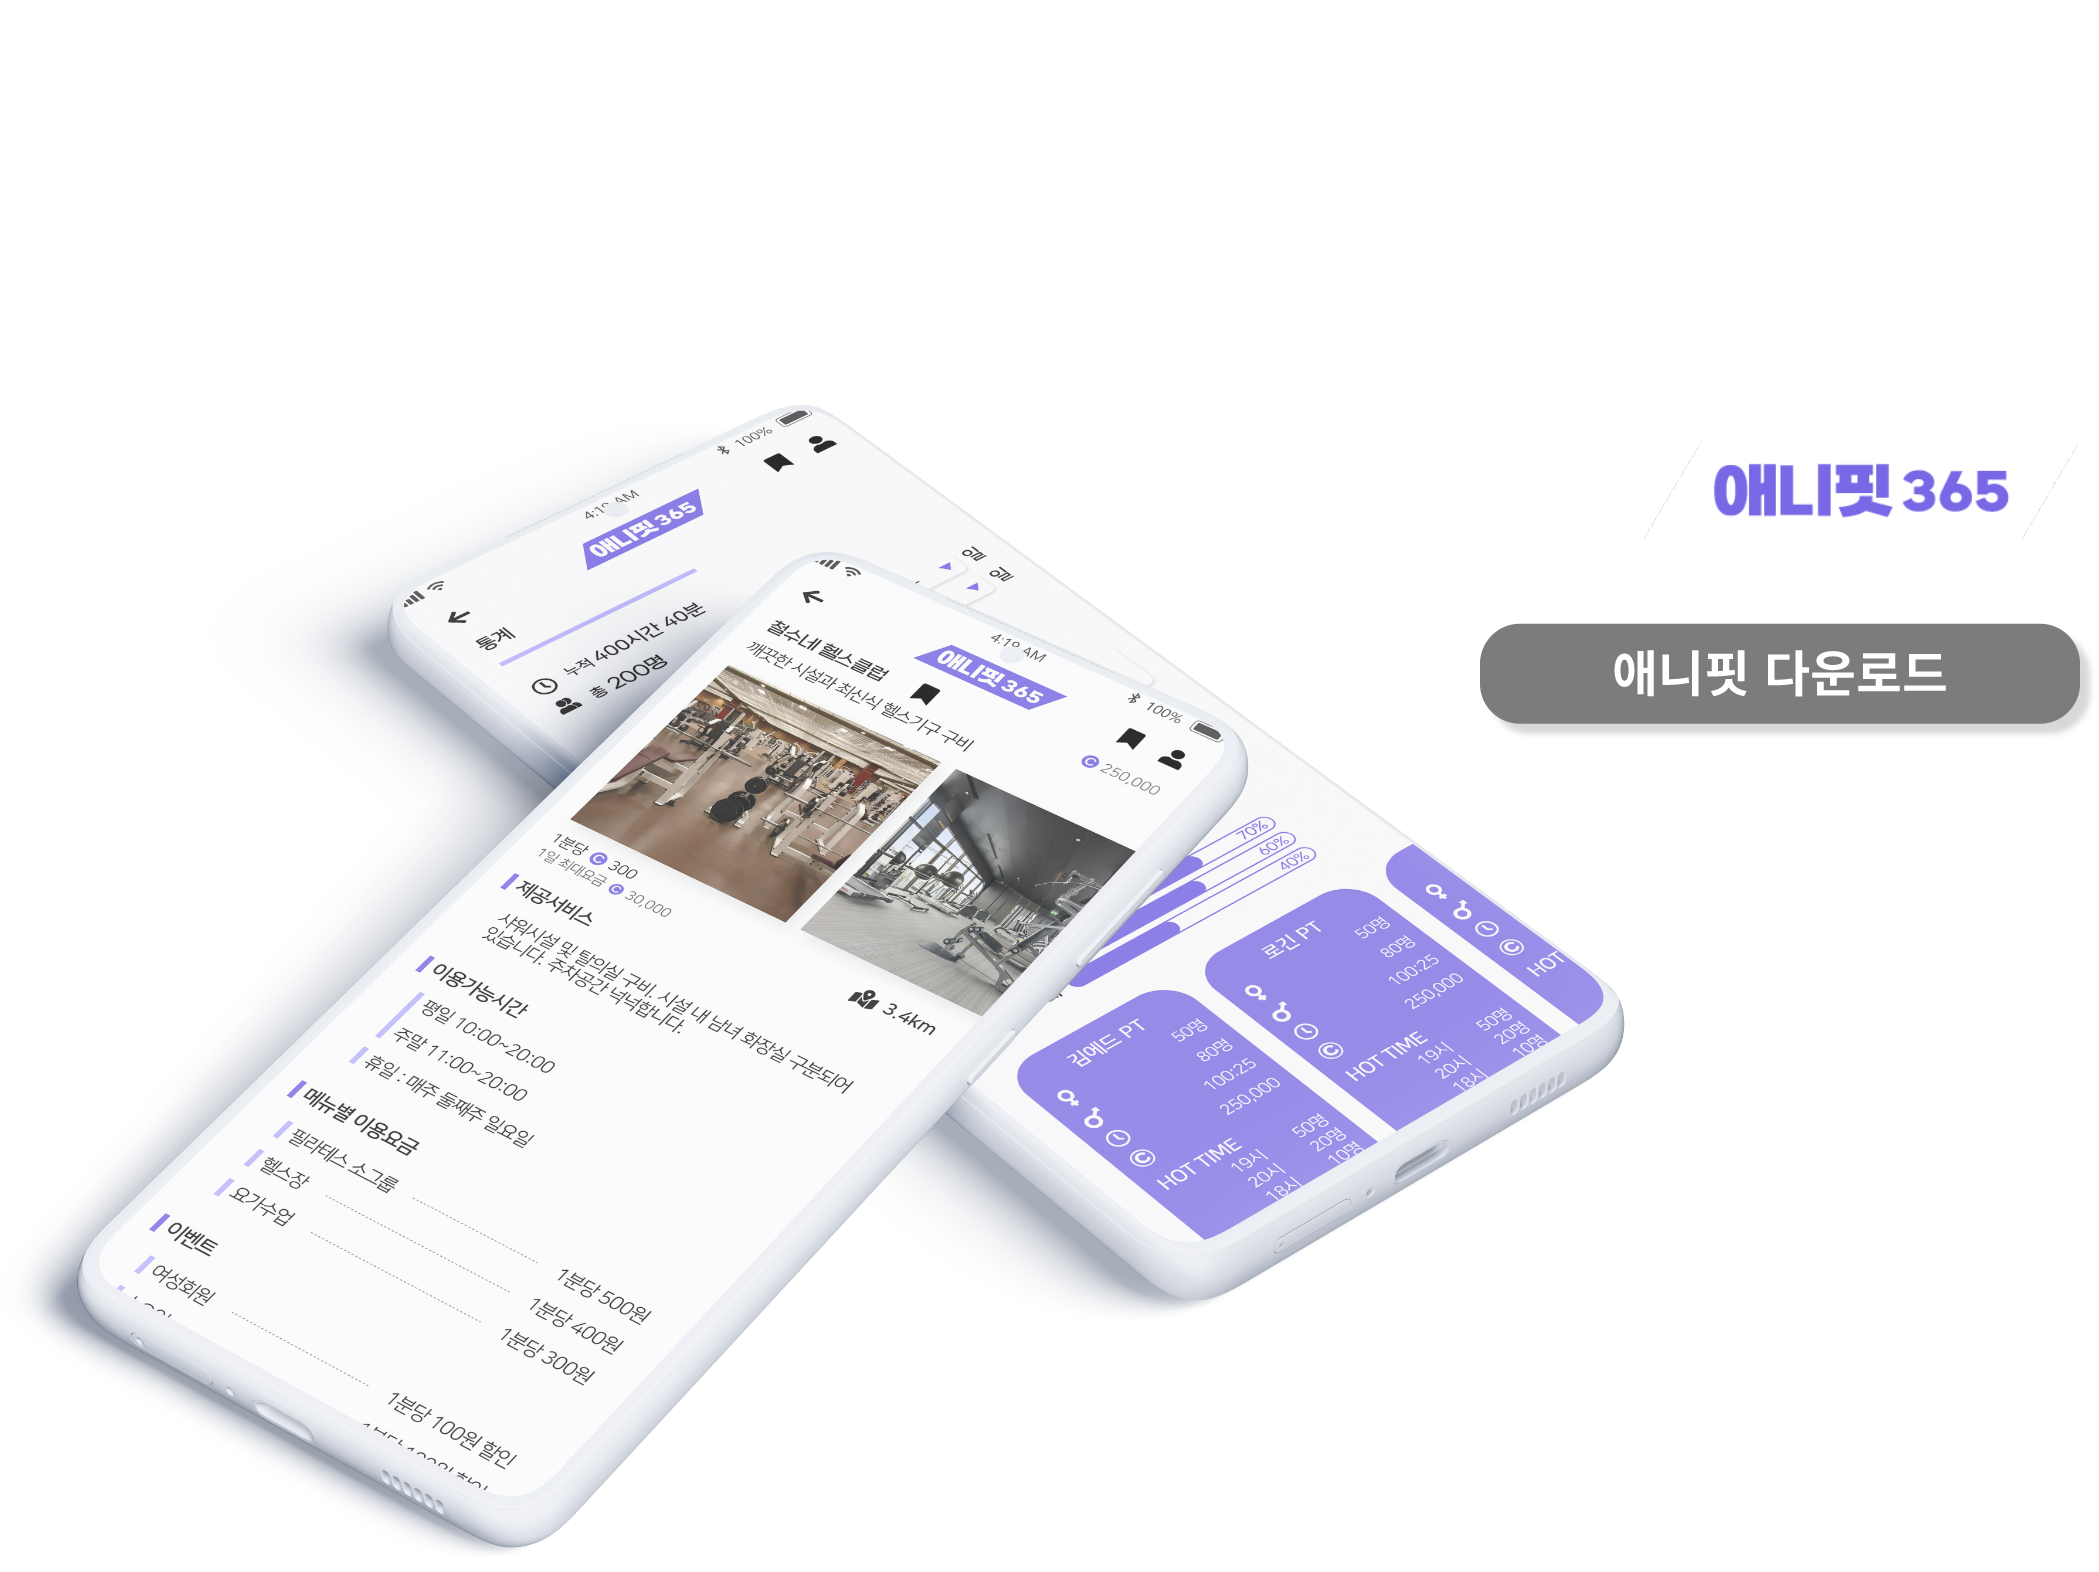
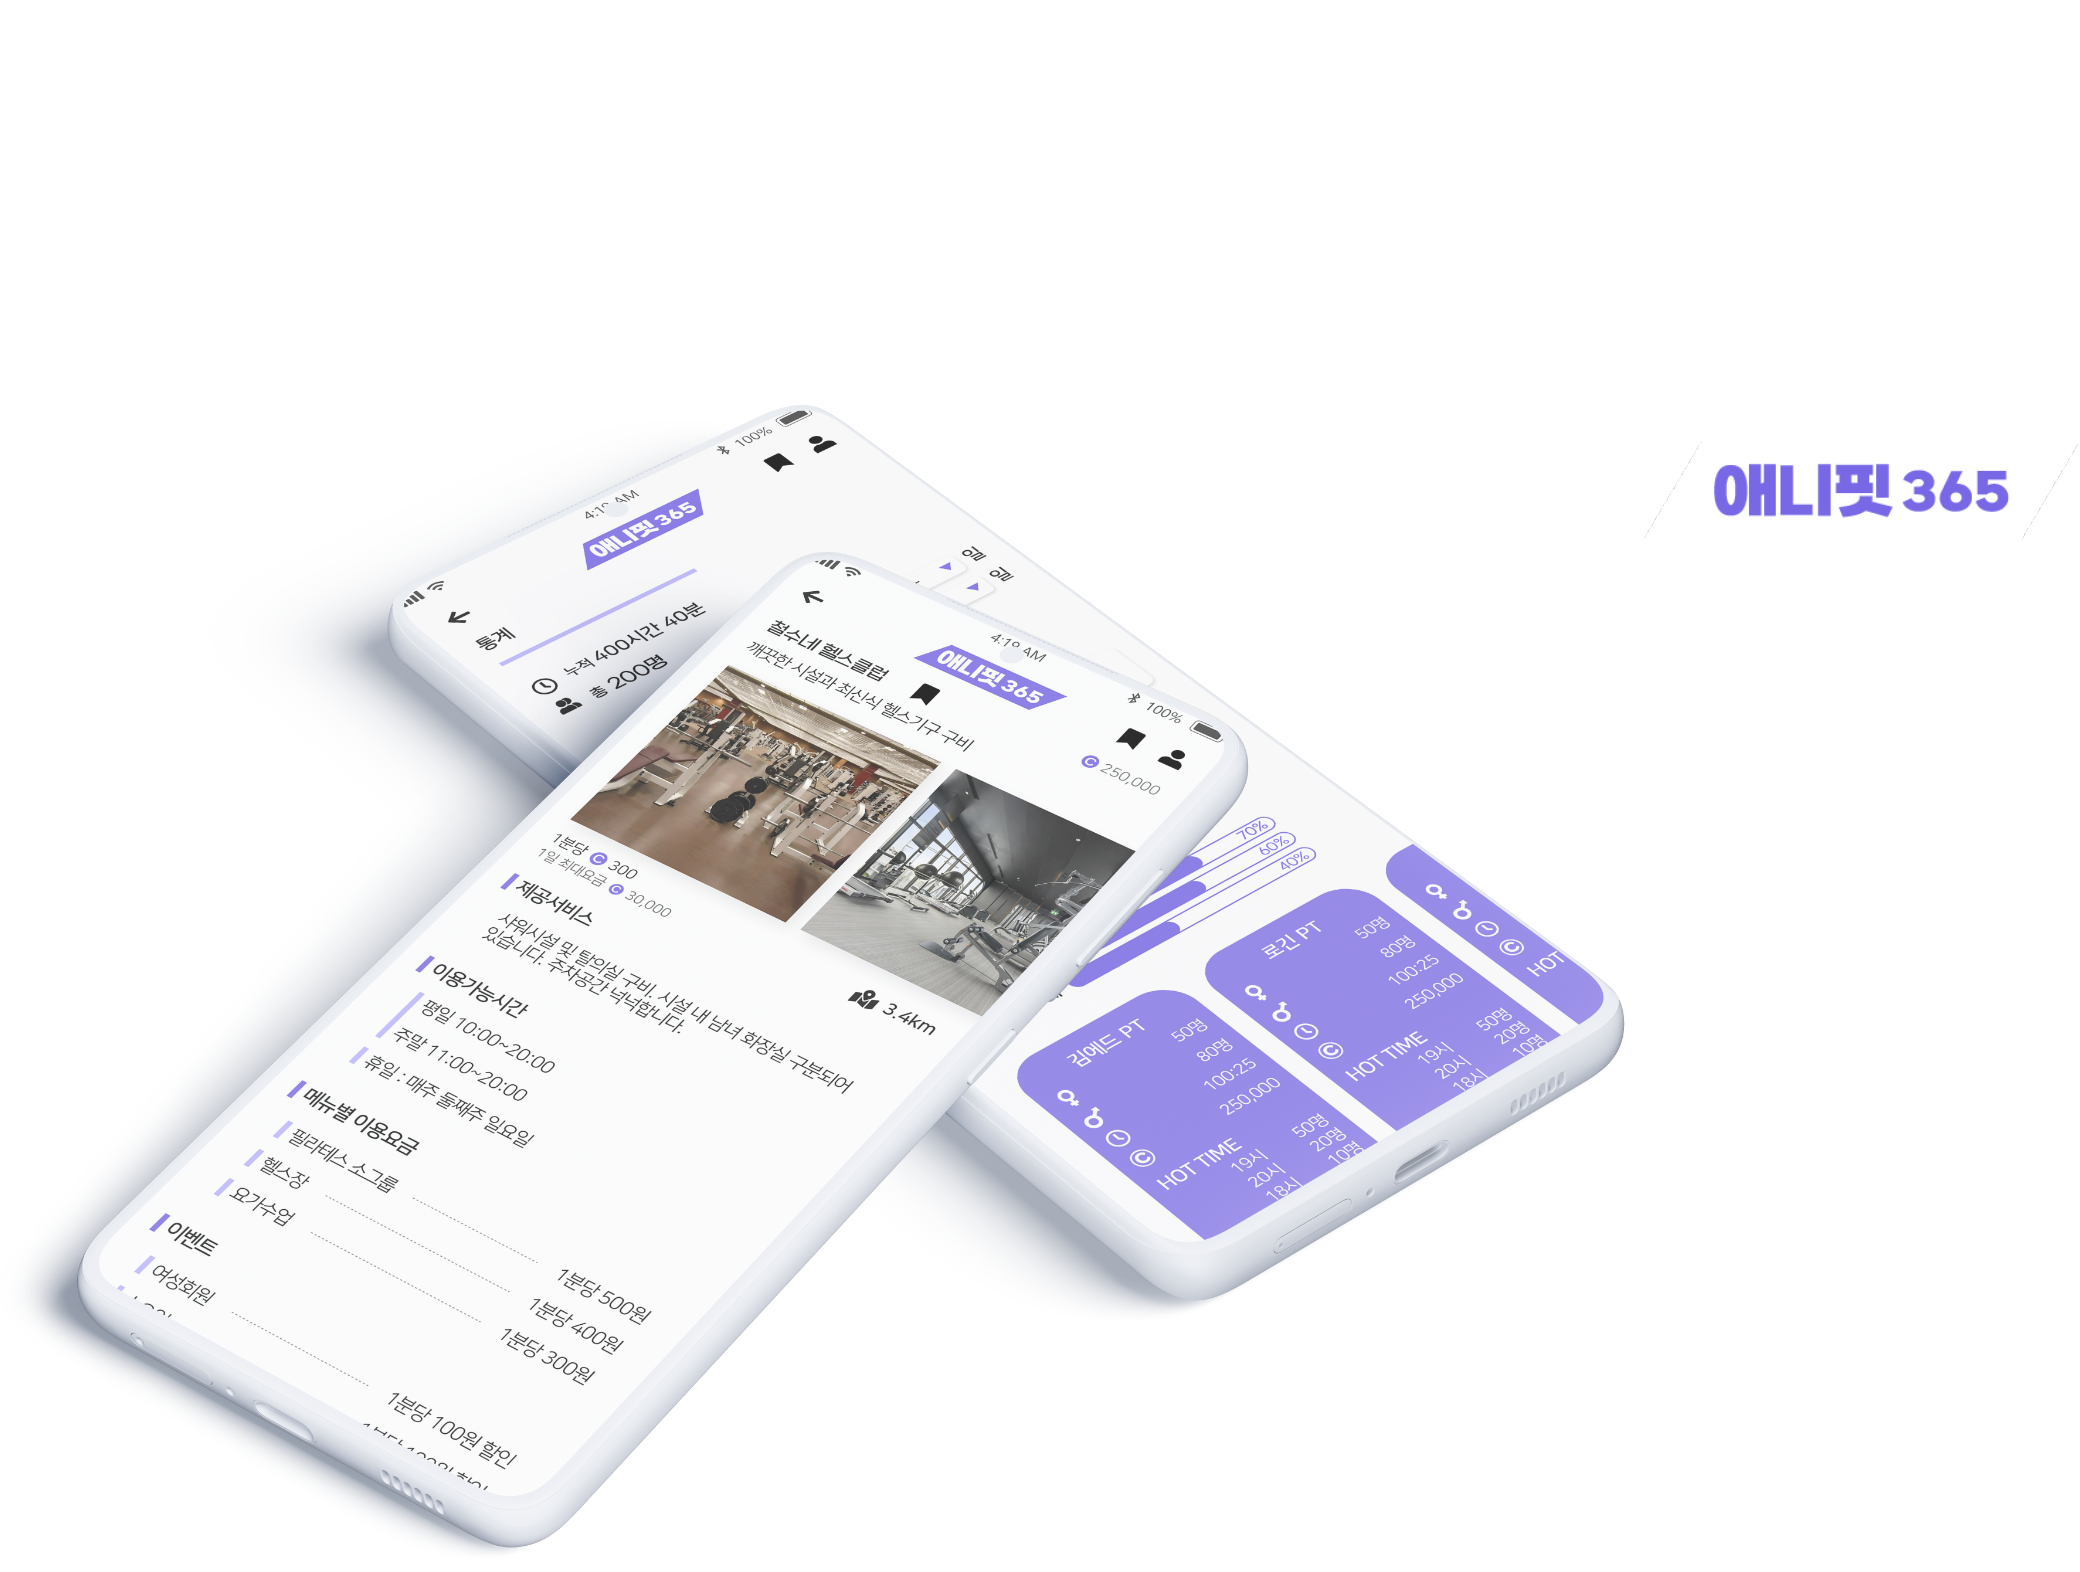
3.1ver

diff --git a/aniFitR_ver.2/index_leg.css b/aniFitR_ver.2/index_leg.css
@@ -11,7 +11,7 @@
         flex-direction: column;
         align-items: center;
         color: white;
-        gap: 36px;
+        gap: 12px;
         background: #7868e6;
     }
 
@@ -20,7 +20,7 @@
             margin-top: 8px;
             line-height: 18px;
             font-weight: medium;
-            margin-top: -30px;
+            margin-top: -8px;
         }
     
     
@@ -29,6 +29,7 @@
     .together {
             font-size: 40px;
             font-weight: bold;
+            margin-bottom: 20px;
         }
 
 
@@ -44,16 +45,18 @@ button::after {
 
     
      button {
-        background: none;
-        border: 3px solid white;
+        background: #fff;
+        border: 3px solid #fff;
         border-radius: 10px;
-        color: #fff;
+        color: #7868e6;
         display: block;
         font-family: 'Noto Sans KR';
         /* background-color: #4e4a6a; */
         font-size: 1em;
         font-weight: bold;
-        padding: 0.6em 6.6em;
+        /* padding: 0.6em 6.6em; */
+        width: 284px;
+        height: 46px;
         position: relative;
         text-transform: uppercase;
     }
@@ -67,7 +70,7 @@ button::after {
     }
 
     button:hover {
-        color:#7868e6;
+        color:#fff;
         cursor: pointer;
         z-index: 0;
     }
@@ -83,7 +86,7 @@ button::after {
   }
   
   .btn-5::after {
-    background-color: #fff;
+    background-color: #7868e6;
     height: 100%;
     left: -35%;
     top: 0;
@@ -109,3 +112,5 @@ button::after {
         .together_img > img {
             height: 382px;
         }
+
+      

diff --git a/aniFitR_ver.2/index.html b/aniFitR_ver.2/index.html
@@ -25,9 +25,7 @@
     <body>
         <section>
             <div class="wrap">
-                <div class="h_img">
-                    <img src="img/H_img.png">
-                </div>
+                <div class="h_img"><img src="img/H_img.png"></div>
             </div>
             <div class="main">
                 <div class="main_head">
@@ -180,6 +178,7 @@
                     <div class="together"><h2>애니핏365와 함께하기</h2></div>
 
                     <!-- ========================Button========================== -->
+                    <button class="btn-5" onclick="window.open('//링크넣는곳')">애니핏365무료다운로드</button>
                     <button class="btn-5" onclick="window.open('https://pf.kakao.com/_fxjRVb')">입점신청</button>
 
 

diff --git a/aniFitR_ver.2/index_HTU.css b/aniFitR_ver.2/index_HTU.css
@@ -1,21 +1,25 @@
  .main_HTU {
             display: flex;
             flex-direction: column;
+            align-items: center;
         }
 
 
         .HTU_content {
-            width: 100%;
             margin-top: 140px;
             display:flex;
-            flex:row;
             justify-content: center;
             gap: 180px;
+            
         }
-
-            .HTU_contentbox {
+        
+        .HTU_contentbox {
+                width: fit-content;
+                display: flex;
+                flex-direction: column;
                 text-align: center;
-
+                justify-content: flex-end;
+                max-width: 232px;
             }
         
                 .HTU_img {

diff --git a/aniFitR_ver.2/index_head.css b/aniFitR_ver.2/index_head.css
@@ -23,10 +23,11 @@ section {
             display: flex;
             justify-content: center;
             width: 100%;
-            margin-top: 160px;
-            margin-bottom: 160px;
+            margin-top: 10vw;
+            margin-right: 30px;
+            margin-bottom: 10vw;
             position: relative;
-        }
+            }
         
         .h_img > img {
             max-width: 1040px;
